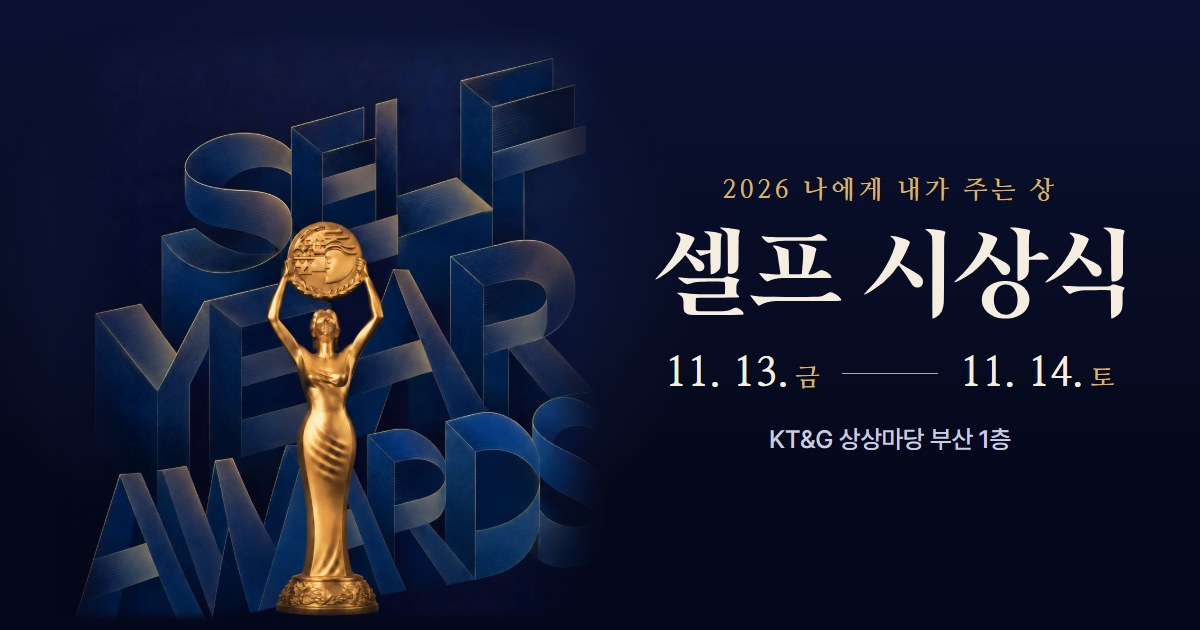
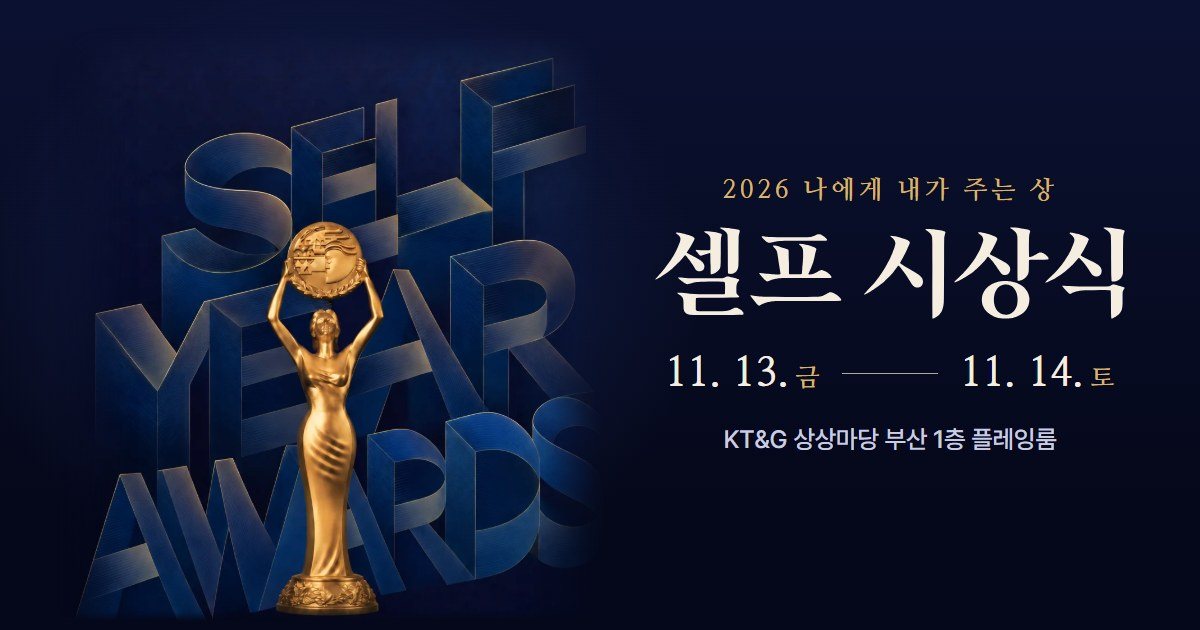
장소에 '1층 플레잉룸' 반영 (첫 화면·행사 안내·공유 미리보기)

Changed region(s): [[0.5858, 0.6635, 0.8942, 0.7238]]

diff --git a/index.html b/index.html
@@ -4,7 +4,7 @@
 <meta charset="utf-8">
 <meta name="viewport" content="width=device-width, initial-scale=1, viewport-fit=cover">
 <title>2026 셀프 시상식 | 나에게 내가 주는 상</title>
-<meta name="description" content="2026년 11월 13일(금)·14일(토), KT&amp;G 상상마당 부산 1층. 올해의 나를 돌아보고 나에게 꼭 맞는 상을 스스로에게 건네는 셀프 시상식. 참가비 10,000원, 사전 신청 없이 현장 참여.">
+<meta name="description" content="2026년 11월 13일(금)·14일(토), KT&amp;G 상상마당 부산 1층 플레잉룸. 올해의 나를 돌아보고 나에게 꼭 맞는 상을 스스로에게 건네는 셀프 시상식. 참가비 10,000원, 사전 신청 없이 현장 참여.">
 <meta name="theme-color" content="#05081a">
 <meta name="color-scheme" content="dark">
 <link rel="canonical" href="https://rkzm211.github.io/selfawards/">
@@ -13,12 +13,12 @@
 <meta property="og:image" content="https://rkzm211.github.io/selfawards/assets/og.jpg">
 <meta property="og:image:width" content="1200">
 <meta property="og:image:height" content="630">
-<meta property="og:image:alt" content="2026 셀프 시상식, 11월 13일–14일 KT&amp;G 상상마당 부산 1층">
+<meta property="og:image:alt" content="2026 셀프 시상식, 11월 13일–14일 KT&amp;G 상상마당 부산 1층 플레잉룸">
 <meta name="twitter:image" content="https://rkzm211.github.io/selfawards/assets/og.jpg">
 <meta property="og:locale" content="ko_KR">
 <meta property="og:site_name" content="셀프 시상식">
 <meta property="og:title" content="2026 셀프 시상식 — 나에게 내가 주는 상">
-<meta property="og:description" content="11. 13.(금) 19:00–21:00 · 11. 14.(토) 13:00–17:00 | KT&amp;G 상상마당 부산 1층 | 참가비 10,000원 · 현장 참여">
+<meta property="og:description" content="11. 13.(금) 19:00–21:00 · 11. 14.(토) 13:00–17:00 | KT&amp;G 상상마당 부산 1층 플레잉룸 | 참가비 10,000원 · 현장 참여">
 <meta name="twitter:card" content="summary_large_image">
 <link rel="icon" href="assets/favicon.svg" type="image/svg+xml">
 <link rel="apple-touch-icon" href="assets/apple-touch-icon.png">
@@ -428,7 +428,7 @@
         <span class="sr-only">2026년 11월 13일 금요일, 14일 토요일</span>
         <span aria-hidden="true">11. 13.<small>금</small></span><i aria-hidden="true"></i><span aria-hidden="true">11. 14.<small>토</small></span>
       </p>
-      <p class="meta"><span>KT&amp;G 상상마당 부산 1층</span></p>
+      <p class="meta"><span>KT&amp;G 상상마당 부산 1층 플레잉룸</span></p>
       <div class="actions">
         <a class="btn btn-gold" href="#info">행사 안내 보기</a>
         <a class="btn btn-line" href="#about">어떤 시상식인가요?</a>
@@ -489,7 +489,7 @@
       <div class="invite">
         <dl class="facts">
           <div class="fact"><dt>일시</dt><dd><span class="when">11. 13.(금) 19:00 – 21:00</span><span class="when">11. 14.(토) 13:00 – 17:00</span></dd></div>
-          <div class="fact"><dt>장소</dt><dd>KT&amp;G 상상마당 부산 1층<a class="map" href="https://map.naver.com/p/search/KT%26G%20%EC%83%81%EC%83%81%EB%A7%88%EB%8B%B9%20%EB%B6%80%EC%82%B0" target="_blank" rel="noopener">지도 보기</a></dd></div>
+          <div class="fact"><dt>장소</dt><dd>KT&amp;G 상상마당 부산 1층&nbsp;플레잉룸<a class="map" href="https://map.naver.com/p/search/KT%26G%20%EC%83%81%EC%83%81%EB%A7%88%EB%8B%B9%20%EB%B6%80%EC%82%B0" target="_blank" rel="noopener">지도 보기</a></dd></div>
           <div class="fact"><dt>참가비</dt><dd>10,000원</dd></div>
           <div class="fact"><dt>참여</dt><dd>사전 신청 없이 현장 참여</dd></div>
           <div class="fact"><dt>문의</dt><dd><a class="tel" href="tel:010-9318-5346">010-9318-5346</a></dd></div>
